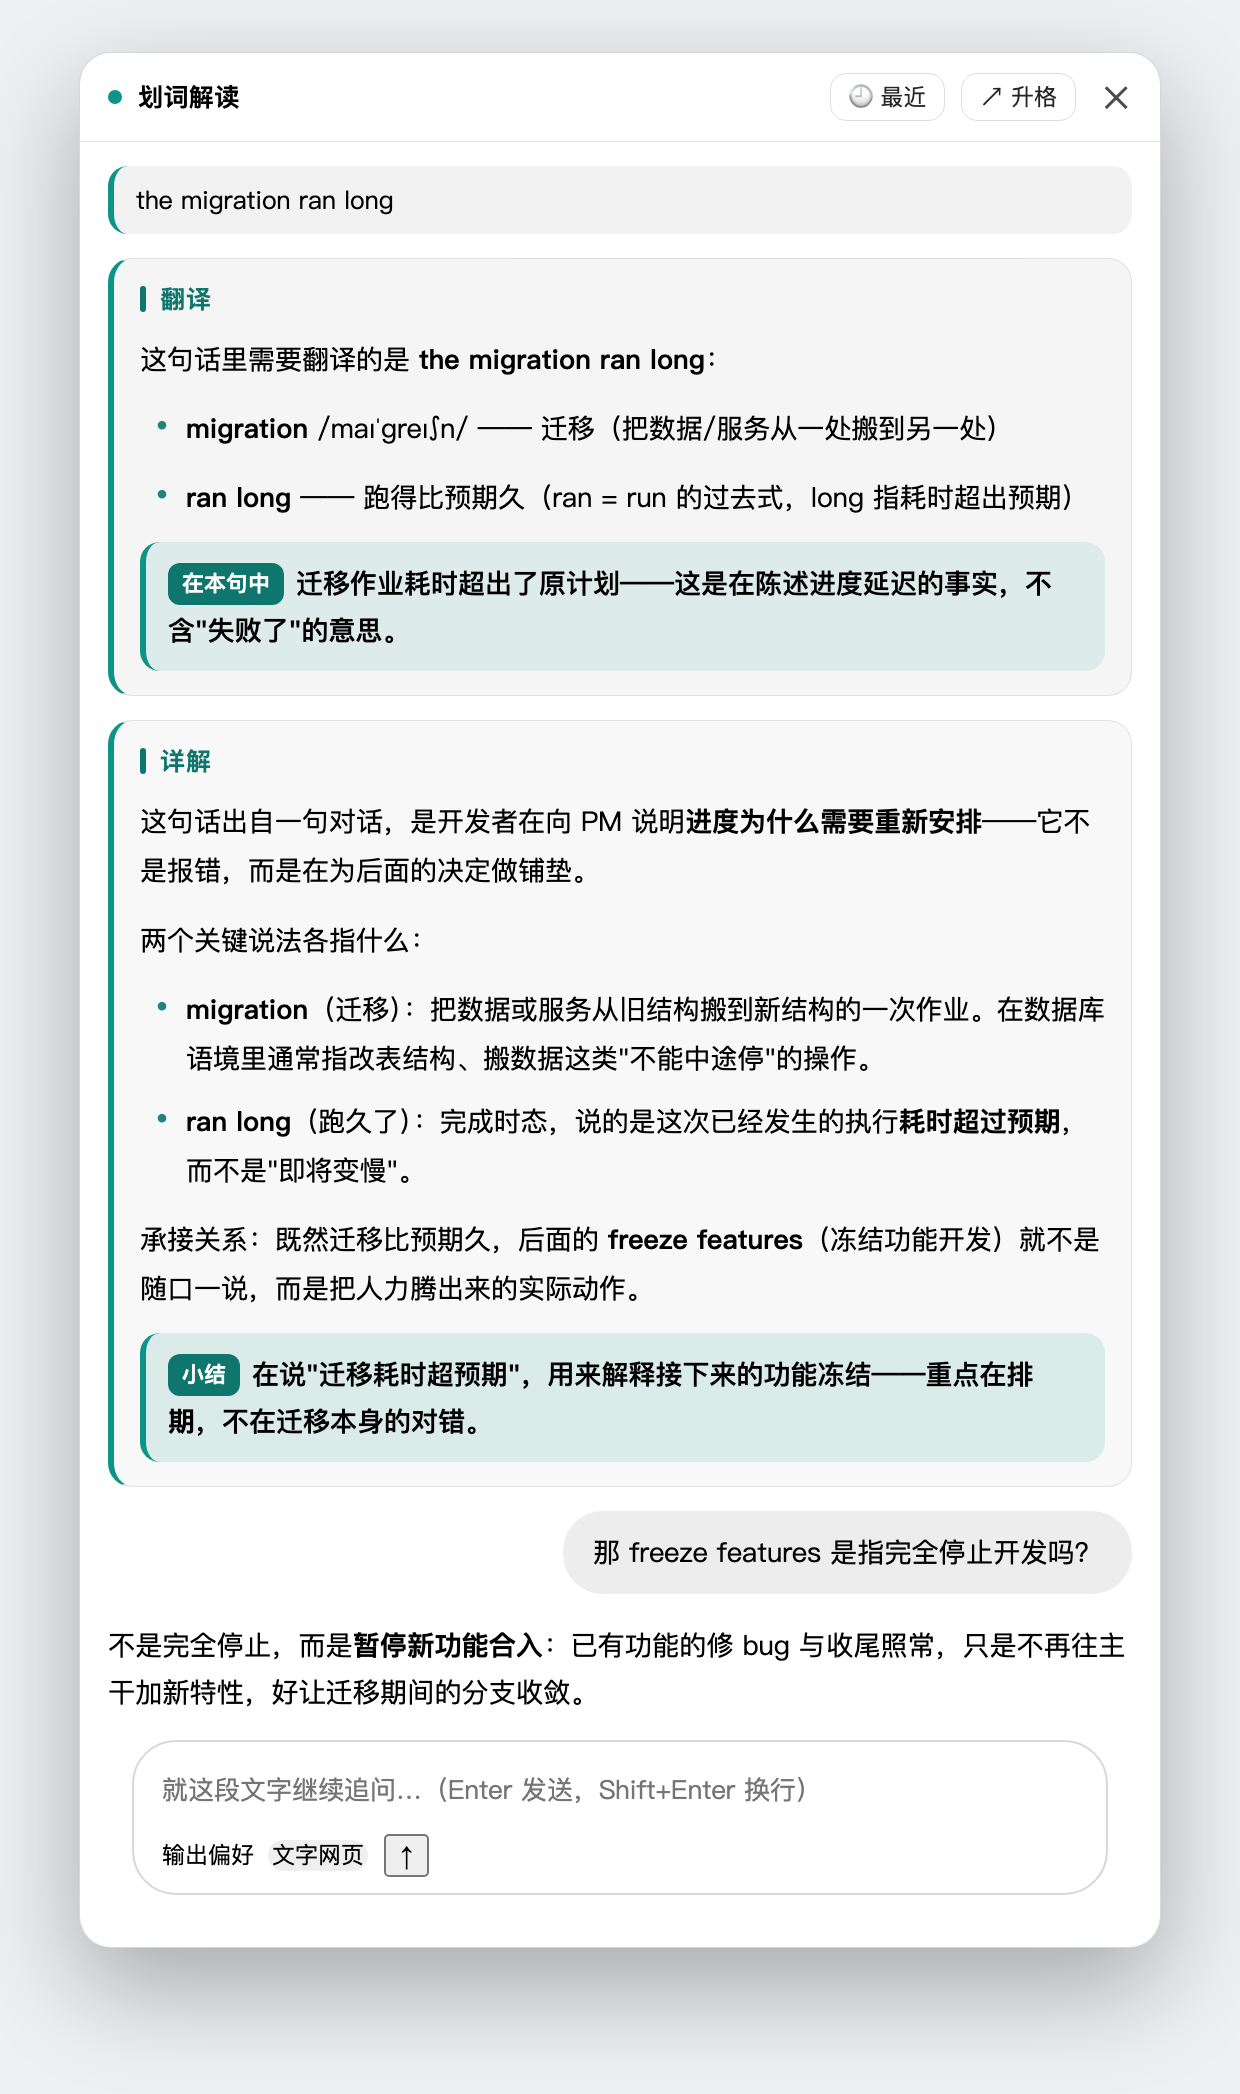
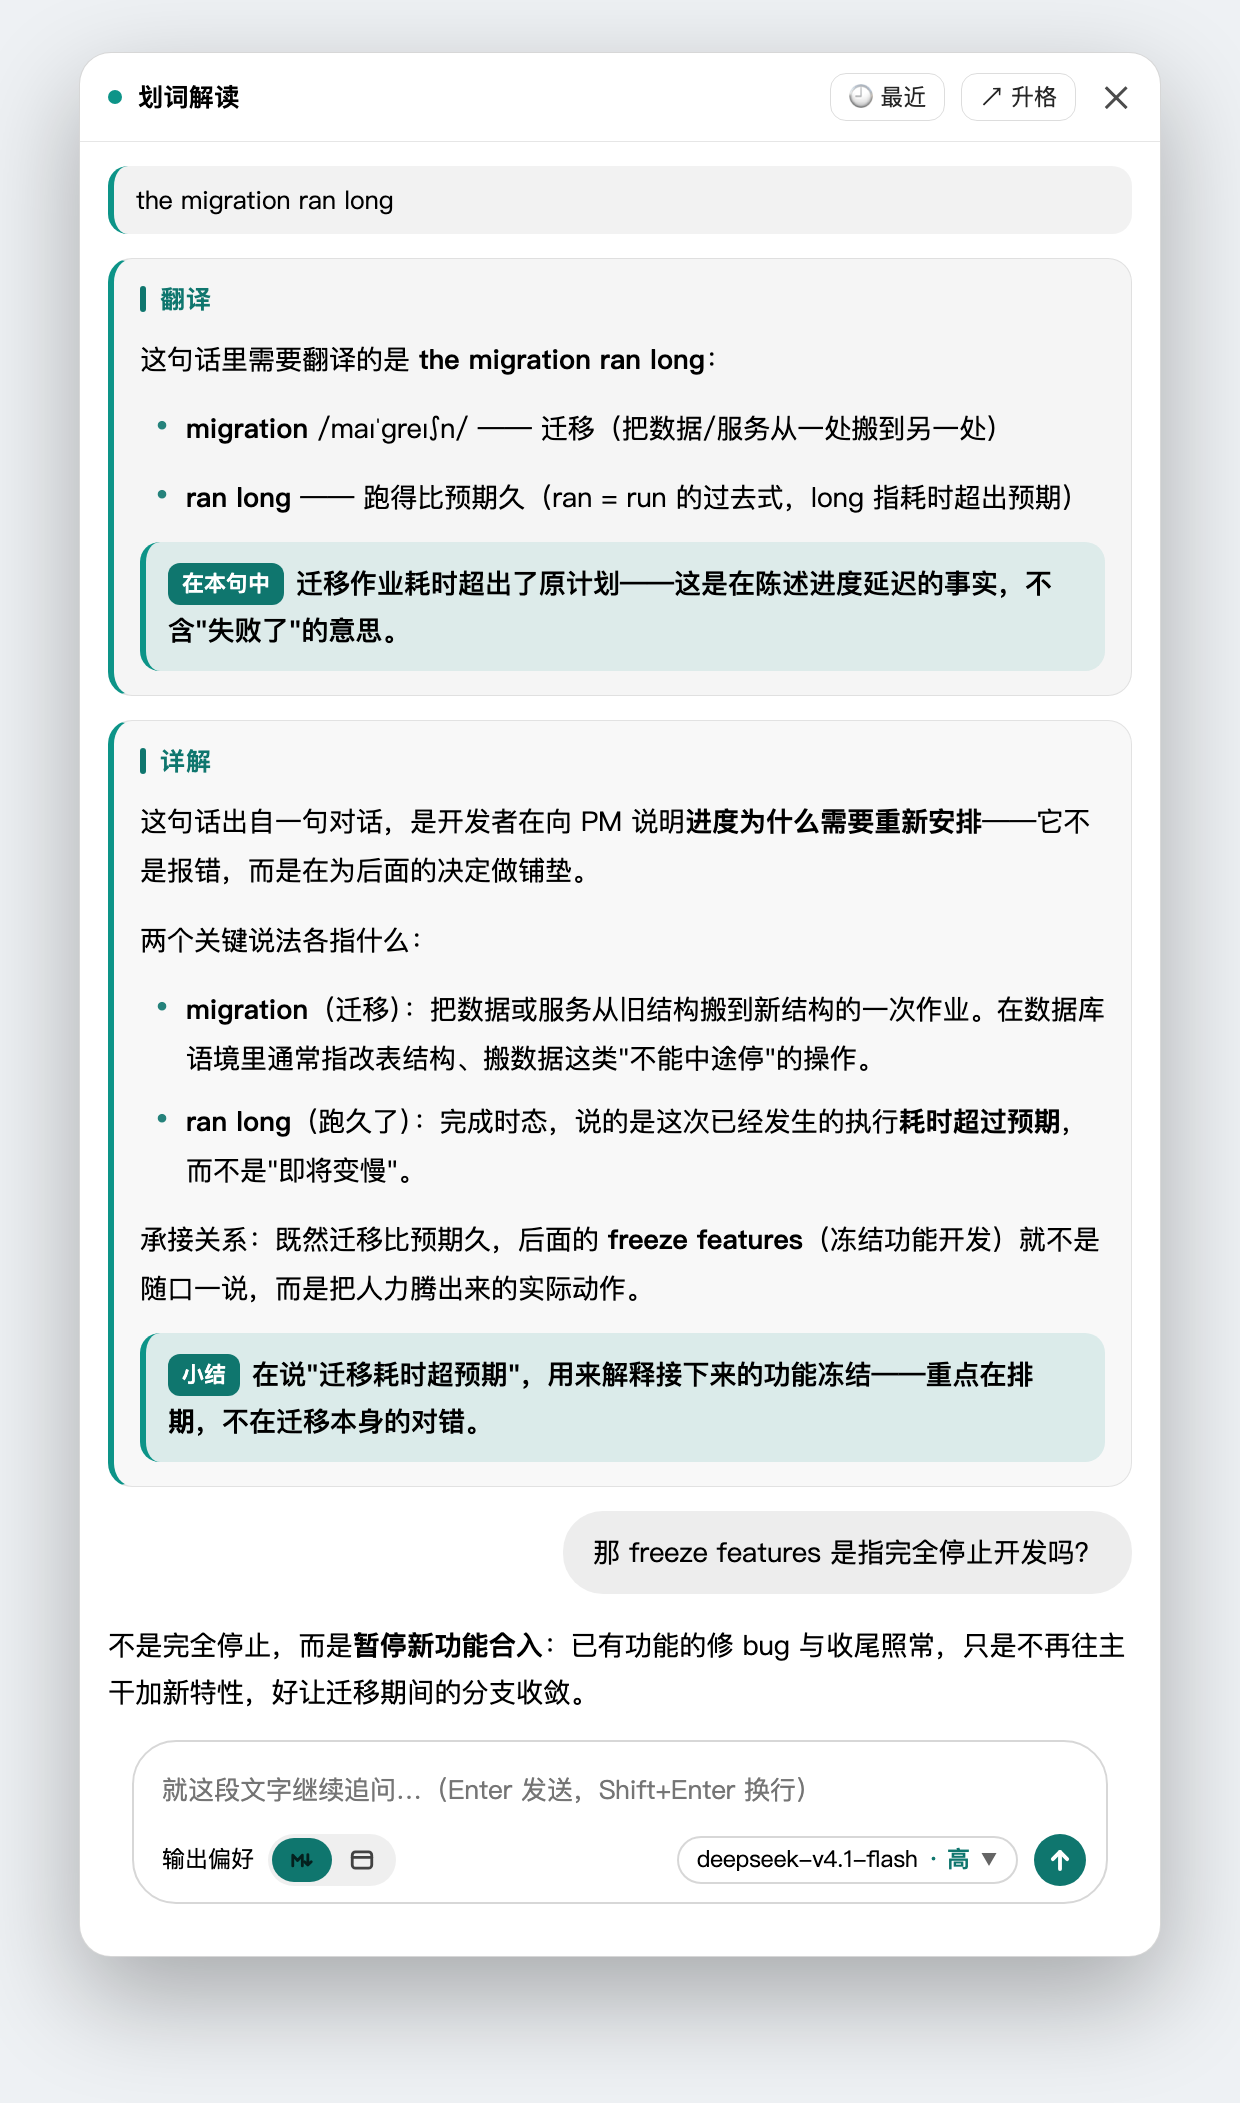
docs: 修正演示页输入区结构；新增「输出偏好 / 网页输出」章节
① 输入区样式修正（第三张图问题）
   原演示页漏了真实输入区的三处结构，截图与真机不符：
   - 缺 .dsh-sel-askspace（撑开用，把右侧推到边上）
   - 缺模型胶囊 .dsh-sel-picker（模型名 + 推理档位 + ▼）
   - 分段开关写错：真实是 .dsh-sel-seg + .dsh-sel-segpill（滑动药丸，靠
     .dsh-sel-pref[data-on=1] 平移 30px）+ 两个 .dsh-sel-segcell 放真实 SVG 图标
     （markdownIcon / windowIcon / sendIcon，照 src/client/index.js 抄）
   现在 stage2.png / web.png 的输入区与真机一致。

② 新增章节「输出偏好：Markdown ↔ 网页」
   说清切换方式与两档的实际语义（均已核对源码）：
   - 默认 Markdown，选择记在 localStorage
   - Markdown 档**不禁止 HTML**；网页档是"网页优先"而非"一律网页"，
     简单问题仍用文字
   - 网页输出的优点：复杂信息可视化 / 页面即答案（单文件内联）/ 预览·源码双页签 /
     默认整页展示（高度由内容决定、内部不滚动，可点「⤡ 还原」收成 320px）/
     注入自带 skills/web-design/SKILL.md 设计规范（约 500px 窄容器）/ 可继续追问
   - 何时别用：只要一段解释或要复制文本时，Markdown 更快更省 token

③ 新增 assets/web.png（网页模式演示：对照表 + 条形图 + 双页签 + 开关拨到网页）

验证：489 条断言全绿；npm pack 含 4 张图（27 文件）。

diff --git a/README.md b/README.md
@@ -66,6 +66,28 @@
 
 <img src="assets/stage2.png" alt="展开详解后：翻译与详解两节卡片，下方可继续追问" width="540">
 
+### 输出偏好：Markdown ↔ 网页
+
+输入区左下角那个两格开关（`M↓` = Markdown / `▭` = 网页）决定**追问的回答用什么形式**。默认是 **Markdown**，选择记在浏览器本地，下次打开还是它。
+
+| 档位 | 行为 |
+| --- | --- |
+| **Markdown**（默认） | 普通文字 / Markdown 回答——标题、列表、表格、代码块都可以。**并不禁止 HTML**：如果某个问题用一页网页明显讲得更清楚，照样会给网页；只是不会为了"好看"把简单问题做成页面 |
+| **网页** | **网页优先**（不是"一律网页"）：需要对比、流程、层级、图表，或文字答案会长到不好读 → 直接给**完整的单文件 HTML**，页面本身就是答案；一两段话能说清的简单问题**仍然用文字回答** |
+
+<img src="assets/web.png" alt="网页模式：回答里嵌一张可交互的页面，带「预览 / 源码」切换" width="540">
+
+**网页输出的优点**（也是它值得单独一档的原因）：
+
+- **复杂信息能"看"而不是"读"**：三种方案的取舍做成对照表 + 条形图，一眼看出差别；文字版要读三段才建立同样的印象。
+- **页面就是答案，不是附件**：生成的是**完整单文件 HTML**（样式与脚本全内联），小窗当场渲染成可交互页面——能悬停、能点、能滚，不用保存成文件再打开。
+- **两个视图随时切**：回答上方有 `预览 / 源码` 两个页签，切到源码就能把 HTML 拿走。
+- **默认就整页展示**：预览高度**由页面内容决定**（内部不滚动），所以一页对比表能完整看下来；想收起来点右侧 **`⤡ 还原`**，回到固定高度（320px、内部滚动）。
+- **有设计规范兜底**：开网页模式时，插件会把自己带的 `skills/web-design/SKILL.md` 注入提示词——按小窗**约 500px 宽的窄容器**写的单列布局规范，避免生成那种"三栏卡片 + 渐变大标题"的通用 AI 模板感。（该文件读不到时有一份内置兜底，不会因此失败。）
+- **回答仍然可追问**：网页结果会作为前情带回下一轮，可以继续说"把第二列改成时间线"。
+
+**什么时候别用网页**：只想要一段解释、或要的是可以直接复制的文本时，Markdown 更快也更省 token——网页要生成一整份 HTML，等待时间和输出长度都更大。
+
 ### 「最近聊过的」历史
 
 面板头部 `🕘 最近` 打开独立浮层列表（贴面板侧边，空间不够自动翻到另一侧）。重划同一个词**直接回放上次的对话，一次模型都不调**。默认保留最近 20 个划词条目（每个条目含它自己的全部追问），LRU 淘汰，**升格过的条目不会被淘汰**。
